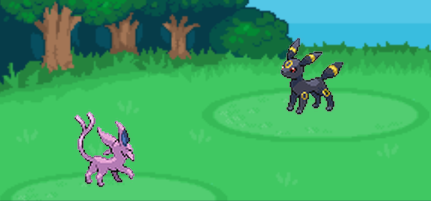
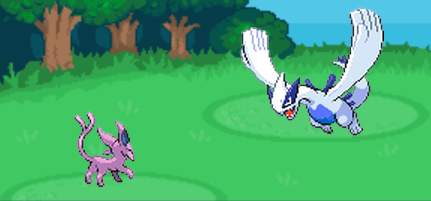
add slash command for random battles

Changed region(s): [[0.5429, 0.0299, 0.9049, 0.6866]]

diff --git a/bot.py b/bot.py
@@ -1,5 +1,5 @@
-import asyncio
 import os
+import random
 
 import discord
 from dotenv import load_dotenv
@@ -67,19 +67,9 @@ def run():
         await client.tree.sync()
         logger.info(f'{client.user} is running!')
 
-    @client.tree.command(name='battle', description='Start a pokémon battle!')
-    async def battle(interaction, *, pokemon1: str, pokemon2: str):
-        if interaction.user == client.user:
-            return
-        if pokemon1 in pokedex and pokemon2 in pokedex:
-            me = Pokemon(pokemon1, pokedex[pokemon1], learnsets[pokemon1]['learnset'], moves)
-            opponent = Pokemon(pokemon2, pokedex[pokemon2], learnsets[pokemon2]['learnset'], moves)
-            view = CustomView(me, opponent, learnsets, moves, timeout=360)
-        else:
-            logger.warning(f'Something went wrong! - CustomView Class')
-            return
+    async def view_callbacks(view, me, opponent):
         async def move1_callback(interaction):
-            content = f'`{pokemon1.title()} used {view.move1.name}!'
+            content = f'`{me} used {view.move1.name}!'
             view.move1.current_pp -= 1
             view.move1.update_label()
             view.check_power_points()
@@ -92,9 +82,8 @@ def run():
                 content=content + '`',
                 view=view
             )
-
         async def move2_callback(interaction):
-            content = f'`{pokemon1.title()} used {view.move2.name}!'
+            content = f'`{me} used {view.move2.name}!'
             view.move2.current_pp -= 1
             view.move2.update_label()
             view.check_power_points()
@@ -108,7 +97,7 @@ def run():
                 view=view
             )
         async def move3_callback(interaction):
-            content = f'`{pokemon1.title()} used {view.move3.name}!'
+            content = f'`{me} used {view.move3.name}!'
             view.move3.current_pp -= 1
             view.move3.update_label()
             view.check_power_points()
@@ -122,7 +111,7 @@ def run():
                 view=view
             )
         async def move4_callback(interaction):
-            content = f'`{pokemon1.title()} used {view.move4.name}!'
+            content = f'`{me} used {view.move4.name}!'
             view.move4.current_pp -= 1
             view.move4.update_label()
             view.check_power_points()
@@ -146,7 +135,7 @@ def run():
             )
         async def struggle_callback(interaction):
             await interaction.response.edit_message(
-                content=f'{pokemon1.title()} is struggling!',
+                content=f'{me} is struggling!',
                 view=view
             )
         view.move1.callback = move1_callback
@@ -155,10 +144,47 @@ def run():
         view.move4.callback = move4_callback
         view.run_away.callback = runaway_callback
 
+
+    @client.tree.command(name='battle', description='Start a pokémon battle!')
+    async def battle(interaction, *, pokemon1: str, pokemon2: str):
+        if interaction.user == client.user:
+            return
+        if pokemon1 in pokedex and pokemon2 in pokedex:
+            me = Pokemon(pokemon1, pokedex[pokemon1], learnsets[pokemon1]['learnset'], moves)
+            opponent = Pokemon(pokemon2, pokedex[pokemon2], learnsets[pokemon2]['learnset'], moves)
+            view = CustomView(me, opponent, timeout=360)
+        else:
+            logger.warning(f'Something went wrong! - CustomView Class')
+            return
+        await view_callbacks(view, me, opponent)
         logger.info(
             f'\x1b[31m{interaction.user}\x1b[0m : ({interaction.channel})'
         )
         await send_message(interaction, pokemon1, pokemon2, pokedex, view)
+
+    
+    @client.tree.command(name='random', description='Start a random pokémon battle!')
+    async def random_battle(interaction):
+        if interaction.user == client.user:
+            return
+        pokemon1, pokemon2 = random.choices(list(pokedex.keys()), k=2)
+        try:
+            me = Pokemon(pokemon1, pokedex[pokemon1], learnsets[pokemon1]['learnset'], moves)
+            opponent = Pokemon(pokemon2, pokedex[pokemon2], learnsets[pokemon2]['learnset'], moves)
+            view = CustomView(me, opponent, timeout=360)
+            await view_callbacks(view, me, opponent)
+            logger.info(
+                f'\x1b[31m{interaction.user}\x1b[0m : ({interaction.channel})'
+            )
+            await send_message(interaction, pokemon1, pokemon2, pokedex, view)
+        except:
+            logger.info(
+                f'\x1b[31m{interaction.user}\x1b[0m : Could not find this pokémon!'
+            )
+            await interaction.followup.send(
+                '`Something went wrong!`'
+            )
+
 
 
     TOKEN = os.getenv('DISCORD_BOT_TOKEN')

diff --git a/custom_view.py b/custom_view.py
@@ -13,6 +13,7 @@ class PokemonMoveButton(Button):
         self.move = move
         self.max_pp = pp
         self.current_pp = pp
+        self.id = self._row - 1
         self.update_label()
 
     def disable_move(self):
@@ -25,6 +26,7 @@ class PokemonMoveButton(Button):
         curr_pp = f' [ {self.current_pp}/{self.max_pp} ]' \
             if self.name not in ('Run Away', 'Struggle') else ''
         self._underlying.label = f'{self.name}' + curr_pp
+    
 
 
 class HealthBar(Button):
@@ -45,11 +47,12 @@ class HealthBar(Button):
 
 
 class CustomView(View):
-    def __init__(self, pokemon1, pokemon2, learnsets, moves, *, timeout=180):
+    def __init__(self, pokemon1, pokemon2, *, timeout=180):
         super().__init__(timeout=timeout)
         self.my_hp = None
         self.opponent_hp = None
         self.my_pokemon = pokemon1
+        self.opponent = pokemon2
         self.move1 = None
         self.move2 = None
         self.move3 = None
@@ -105,7 +108,10 @@ class CustomView(View):
                 emoji='👊🏽',
                 row=1,
                 pp=float('inf'),
-                move='struggle'
+                move='struggle',
+                view=self,
+                pokemon1=self.my_pokemon,
+                pokemon2=self.opponent,
             )
             self.add_item(self.struggle)
         
@@ -131,28 +137,28 @@ class CustomView(View):
             emoji='➡',
             row=1,
             pp=self.my_pokemon.move1.max_pp,
-            move=self.my_pokemon.move1.slug
+            move=self.my_pokemon.move1.slug,
         )
         self.move2 = PokemonMoveButton(
             label=self.my_pokemon.move2.name,
             emoji='➡',
             row=2,
             pp=self.my_pokemon.move2.max_pp,
-            move=self.my_pokemon.move2.slug
+            move=self.my_pokemon.move2.slug,
         )
         self.move3 = PokemonMoveButton(
             label=self.my_pokemon.move3.name,
             emoji='➡',
             row=3,
             pp=self.my_pokemon.move3.max_pp,
-            move=self.my_pokemon.move3.slug
+            move=self.my_pokemon.move3.slug,
         )
         self.move4 = PokemonMoveButton(
             label=self.my_pokemon.move4.name,
             emoji='➡',
             row=4,
             pp=self.my_pokemon.move4.max_pp,
-            move=self.my_pokemon.move4.slug
+            move=self.my_pokemon.move4.slug,
         )
         self.run_away = PokemonMoveButton(
             label='Run Away',

diff --git a/bot_play.py b/bot_play.py
@@ -1,0 +1,2 @@
+def bot_moves():
+    ...
